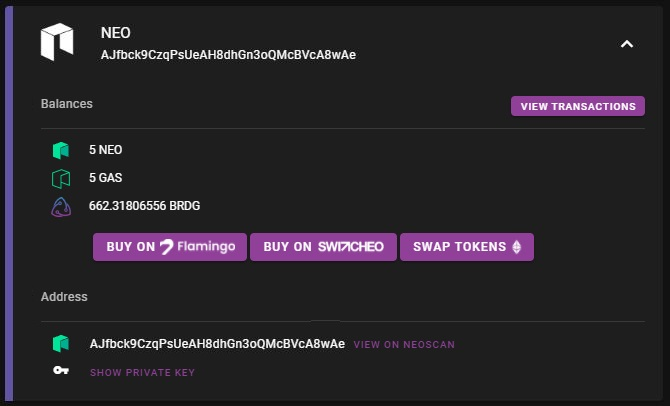
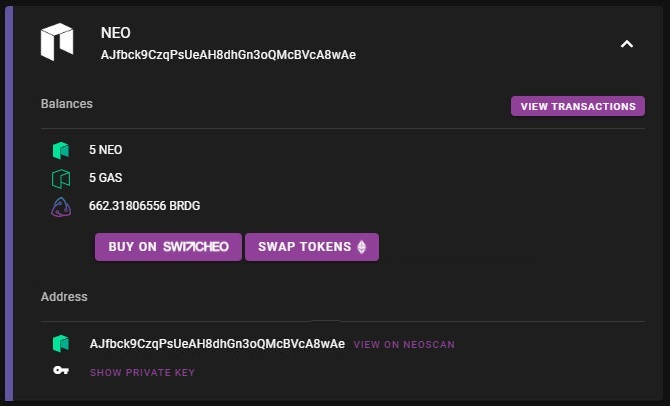
Remove flamingo for 3.1

Changed region(s): [[0.1493, 0.5616, 0.806, 0.6502]]

diff --git a/docs/extension-wallets-buy.md b/docs/extension-wallets-buy.md
@@ -8,7 +8,7 @@ The token swap dialog allows users to send a token swap request to the Bridge Ne
 
 <h2>Neo Blockchain</h2>
 
-On the Neo blockchain, tokens can be acquired via the decentralized exchanges Flamingo and Switcheo.  Links to the respective exchanges can be found in the Bridge Passport Neo Wallet.
+On the Neo blockchain, tokens can be acquired via the decentralized exchanges like Switcheo.  Links to the supported exchanges can be found in the Bridge Passport Neo Wallet.
 
 <img class='centered' src='/img/extension/neo-buy.jpg'></img>
 
